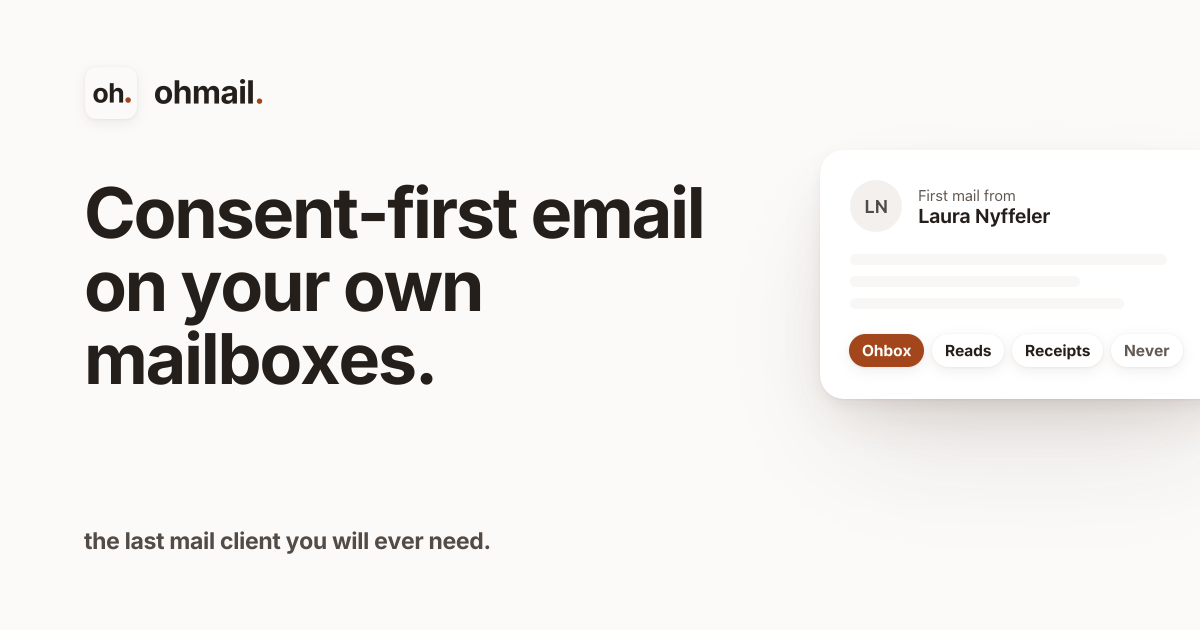
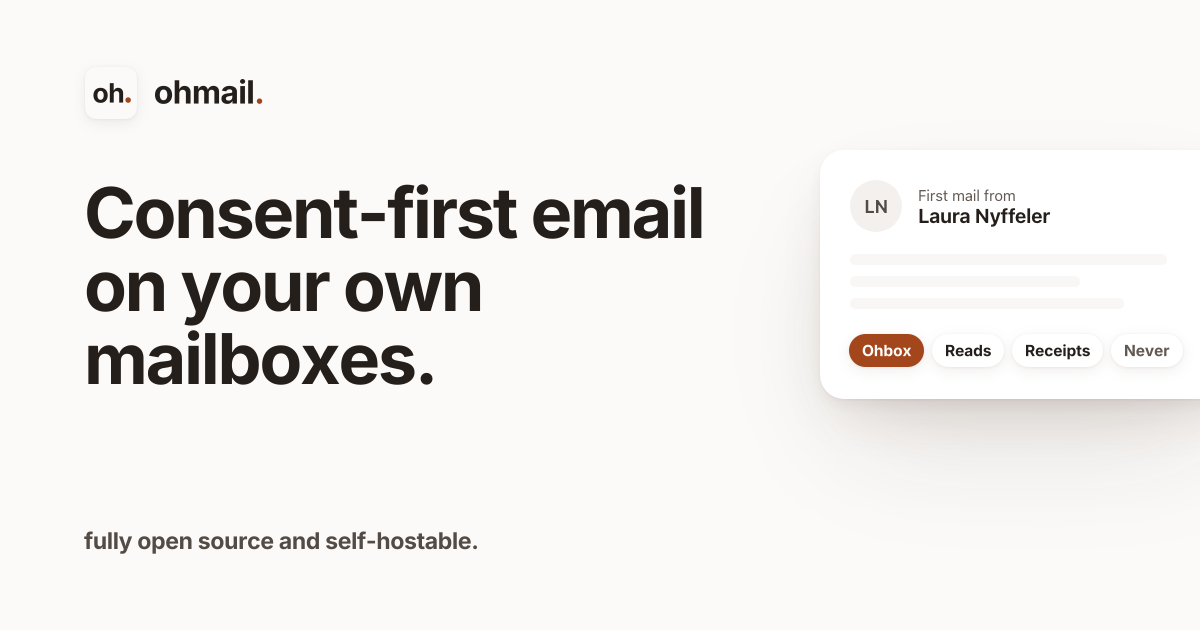
copy(landing): the strapline says ohmail is fully open source and self-hostable
The landing page says what ohmail is: fully open source and self-hostable.

Monorepo-Commit: 23ac72e4cbc0551221a02d55351425ba2f3e69ed

Changed region(s): [[0.0617, 0.8444, 0.4008, 0.8746]]

diff --git a/apps/webapp/app/(marketing)/components/Hero.tsx b/apps/webapp/app/(marketing)/components/Hero.tsx
@@ -25,8 +25,8 @@ import { markTags } from "./Mark";
 
 /**
  * The breaks live in the message so a translation re-rags without touching this file; the whitespace between spans
- * survives in textContent, so copy-paste and screen readers get one sentence. The former claim is the strapline under
- * the lockup; parked alternates stay translated (`headlineAlt1`/`headlineAlt2`).
+ * survives in textContent, so copy-paste and screen readers get one sentence. The strapline under the lockup is its own
+ * line; parked alternates stay translated (`headlineAlt1`/`headlineAlt2`).
  */
 export function Hero() {
   const t = useTranslations("hero");
